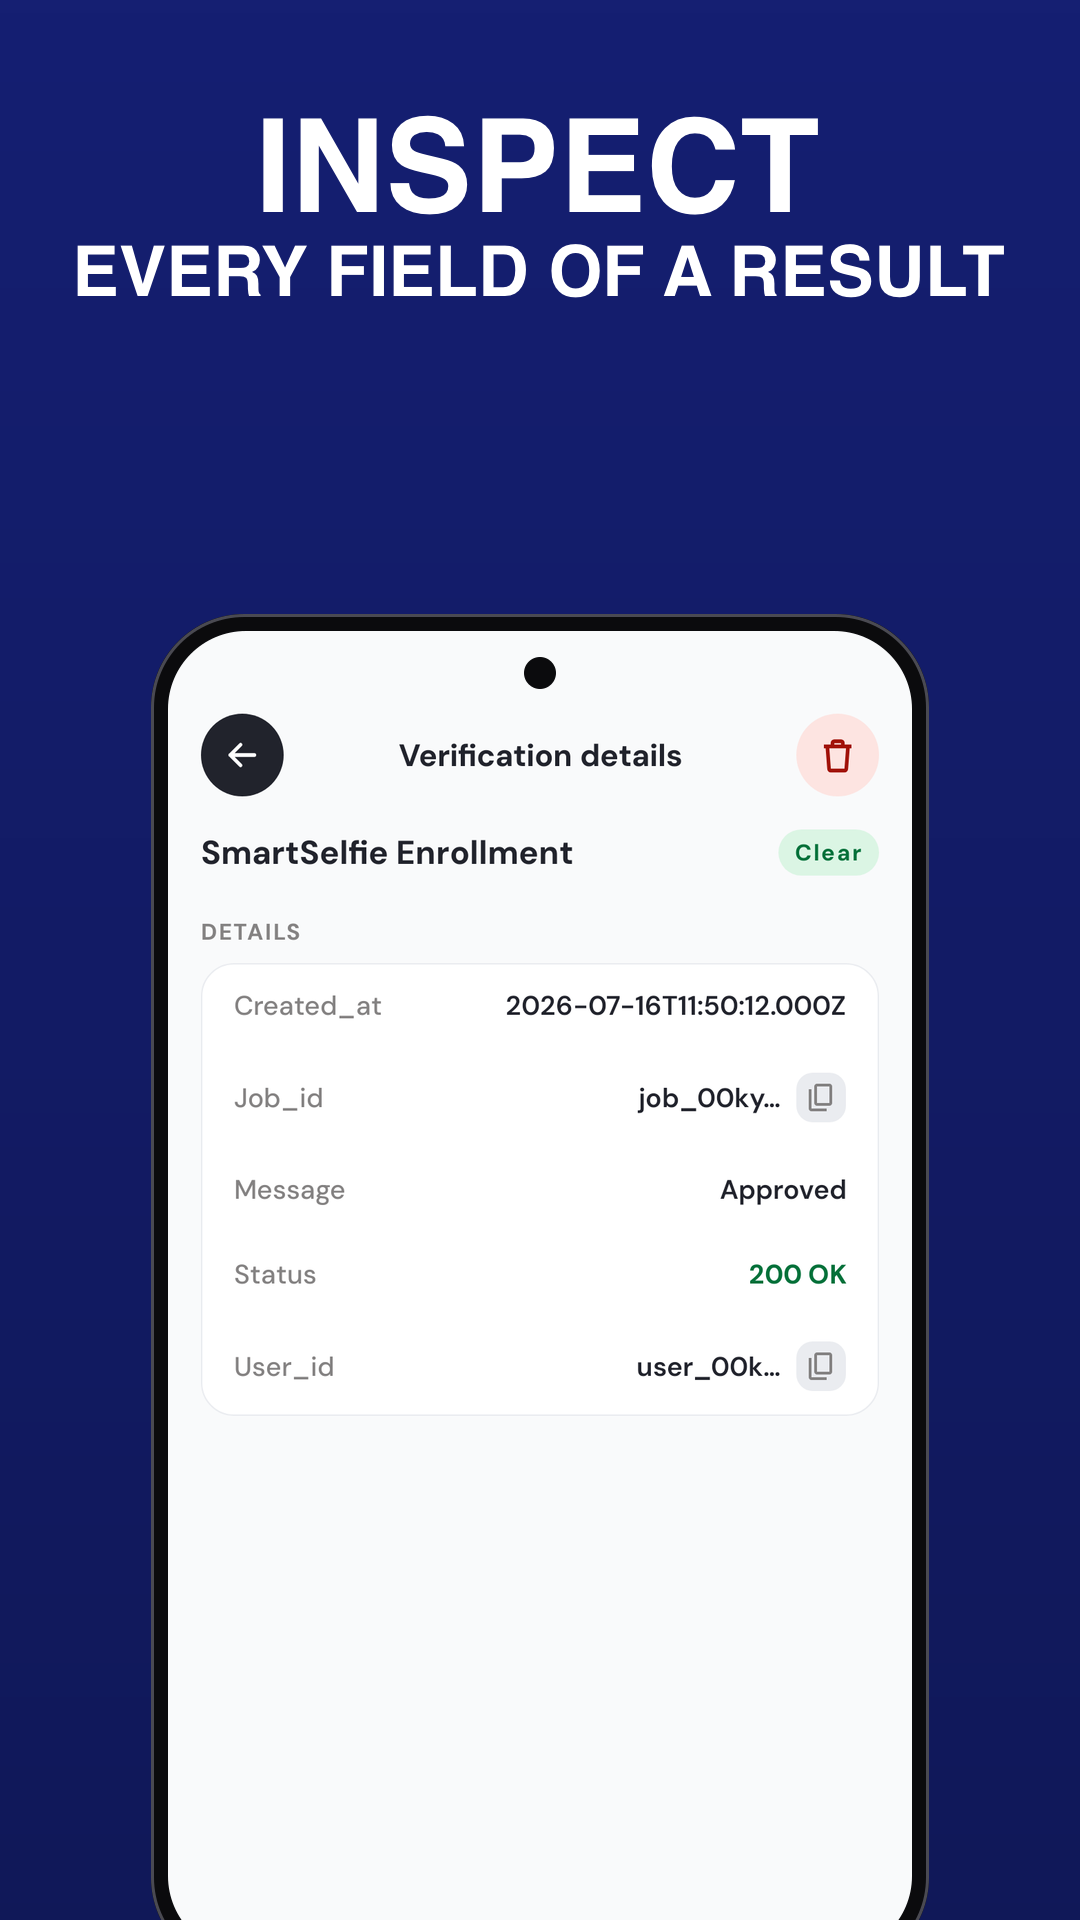
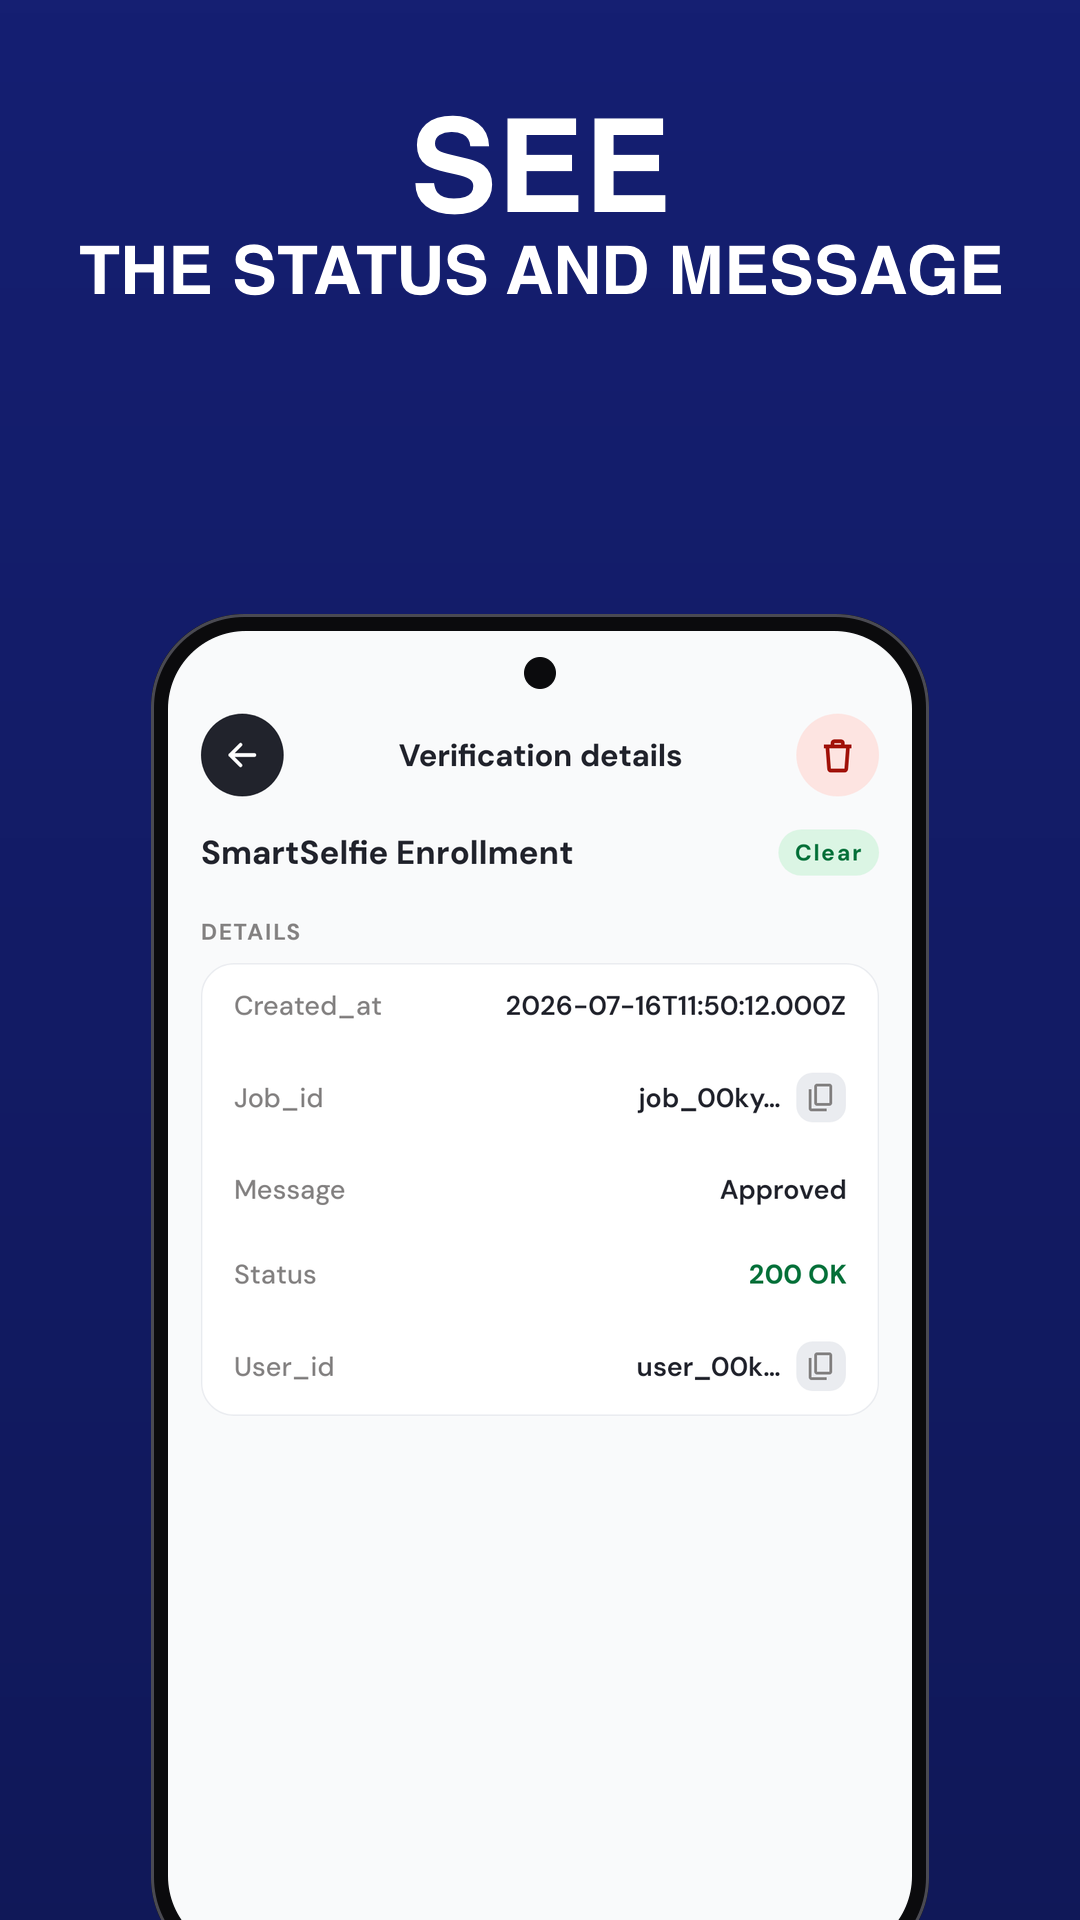
fix: take the store headlines' nouns from the public docs

Changed region(s): [[0.0611, 0.0625, 0.9472, 0.1562]]

diff --git a/docs/plan/play-release-android.md b/docs/plan/play-release-android.md
@@ -184,7 +184,11 @@ throughout. Variety comes from the headlines and the screens, which is enough.
 **A headline must not carry a count.** The first set opened with "Six products, one integration", which
 is wrong the day a product is added or removed and needs a re-render nobody will remember to do. The
 headlines are imperative verb plus concrete object, each true to the panel it sits above, and none of
-them states a number.
+them states a number. They also take their nouns from `docs-v3` rather than inventing new ones: it
+calls the record a **verification result** (28 uses) and describes one by its **status** and
+**message**, whose values — `clear`, `attention`, `block` — are the words on the app's own status
+pills. Two earlier drafts read as developer shorthand ("every field of a result") or trailed a clause
+("every run and its status"); the docs' vocabulary fixed both.
 
 ### 2.7 What building the pipeline changed
 
